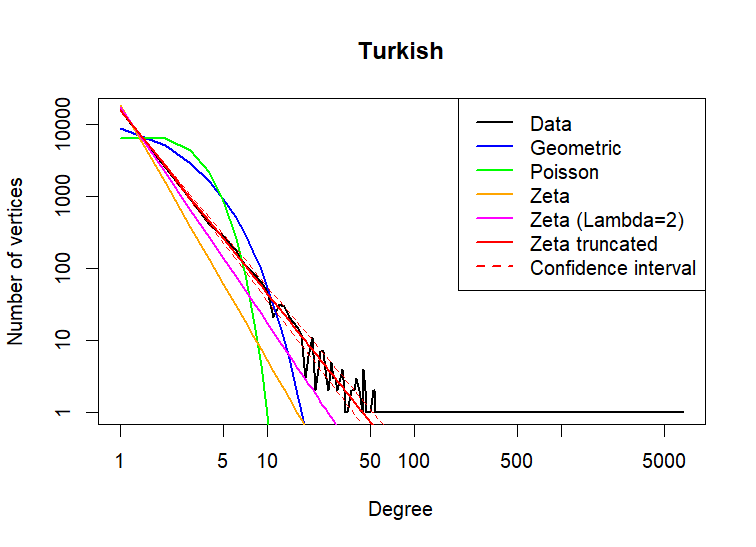
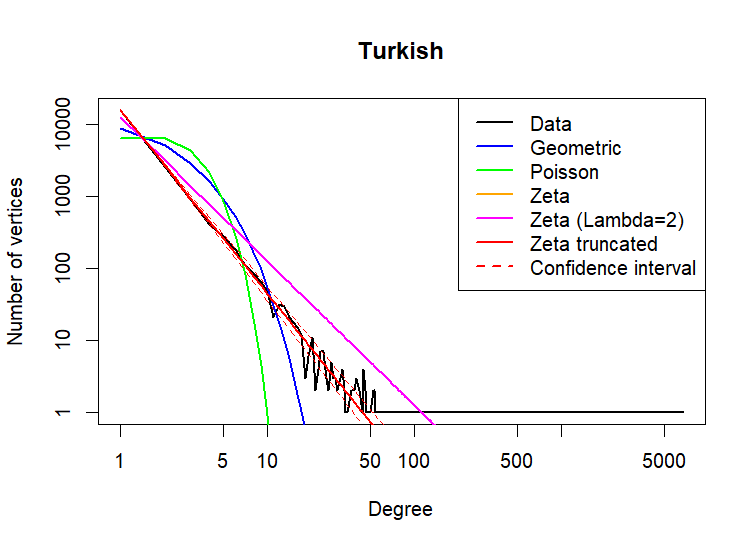
Correct an error in the plots

diff --git a/Table AIC.tex b/Table AIC.tex
@@ -1,5 +1,5 @@
 % latex table generated in R 4.3.1 by xtable 1.8-4 package
-% Fri Oct  4 21:40:06 2024
+% Fri Oct  4 22:28:25 2024
 \begin{table}[ht]
 \centering
 \begin{tabular}{rlrrrrr}

diff --git a/Table Parameters.tex b/Table Parameters.tex
@@ -1,5 +1,5 @@
 % latex table generated in R 4.3.1 by xtable 1.8-4 package
-% Fri Oct  4 21:40:06 2024
+% Fri Oct  4 22:28:25 2024
 \begin{table}[ht]
 \centering
 \begin{tabular}{rlrrrrr}

diff --git a/Table languages.tex b/Table languages.tex
@@ -1,5 +1,5 @@
 % latex table generated in R 4.3.1 by xtable 1.8-4 package
-% Fri Oct  4 15:39:03 2024
+% Fri Oct  4 22:28:19 2024
 \begin{table}[ht]
 \centering
 \begin{tabular}{rlrrrr}
